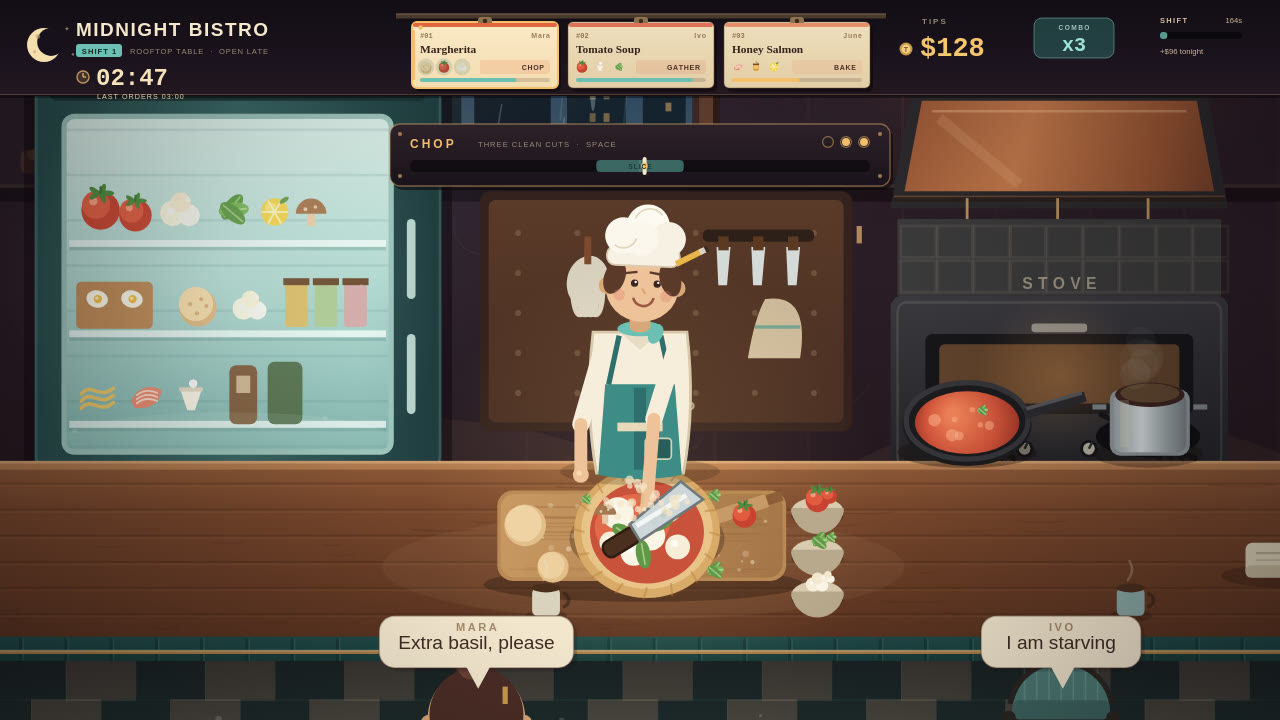
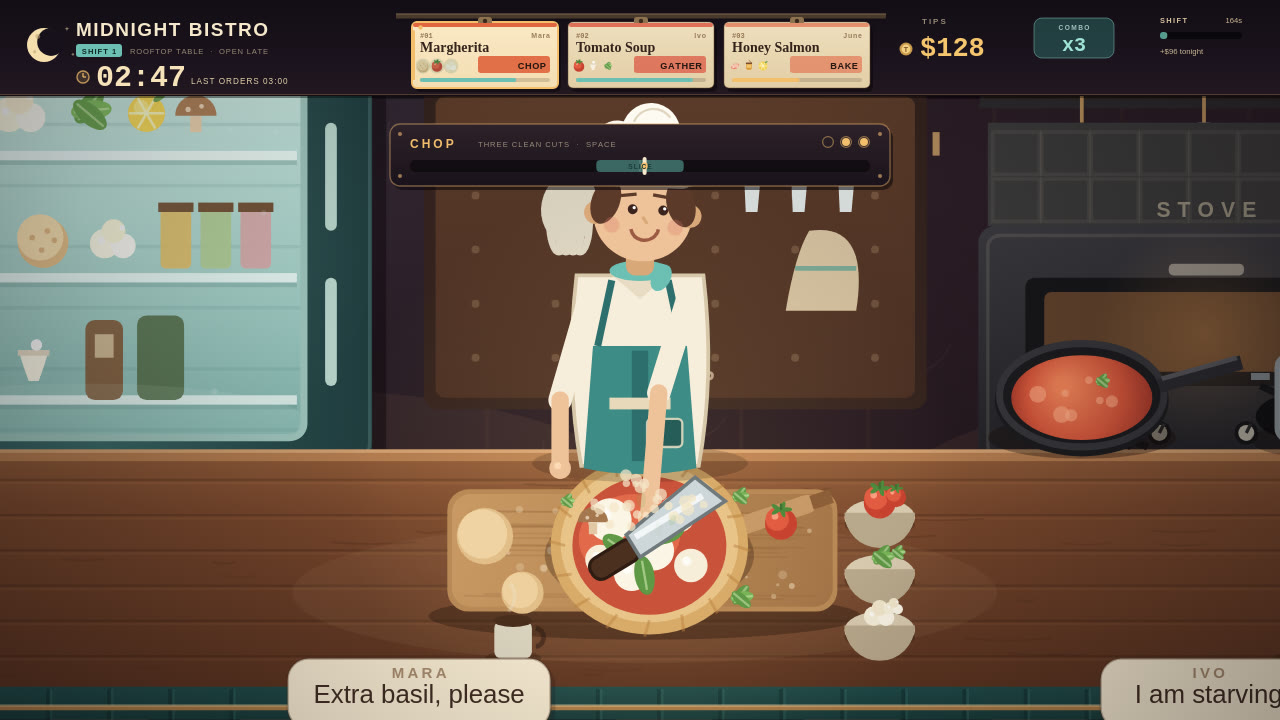
Rebuild the judge sheet: bigger clock and tickets, four distinct beats, lit pass with ORDER UP

diff --git a/game/src/hud.js b/game/src/hud.js
@@ -49,8 +49,8 @@ function drawClock(ctx, game, x, y) {
   line(ctx, x, y - 5, x, y - 9, '#f3bf6d', 1.2);
   line(ctx, x, y - 5, x + 3, y - 5, '#f3bf6d', 1.2);
   const mins = game.clockMinutes === undefined ? 167 : game.clockMinutes;
-  text(ctx, fmtClock(mins), x + 13, y + 3, 24, '#f6e3b9', { font: 'mono', weight: 700 });
-  text(ctx, 'LAST ORDERS 03:00', x + 14, y + 17, 7.2, withAlpha('#f0dcb4', 0.95), { spacing: 1 });
+  text(ctx, fmtClock(mins), x + 13, y + 4, 30, '#f6e3b9', { font: 'mono', weight: 700 });
+  text(ctx, 'LAST ORDERS 03:00', x + 108, y + 2, 8.2, withAlpha('#f0dcb4', 0.95), { spacing: 1 });
 }
 
 export function drawHUD(ctx, game) {
@@ -203,21 +203,21 @@ function drawTicket(ctx, game, index, x, y, w, h) {
   text(ctx, '#' + String(index + 1).padStart(2, '0'), x + 8, y + 16, 7, withAlpha('#7a5a3a', 0.8), { font: 'mono', weight: 700 });
   text(ctx, seat ? seat.customer.name : 'Guest', x + w - 8, y + 16, 7, withAlpha('#7a5a3a', 0.75), { align: 'right', weight: 700, spacing: 0.8 });
   // dish name
-  text(ctx, r.short, x + 8, y + 31, 11.4, '#33231a', { font: 'serif', weight: 700 });
+  text(ctx, r.short, x + 8, y + 30, 14, '#33231a', { font: 'serif', weight: 700 });
   // ingredient icons and step
   r.ingredients.forEach((id, k) => {
     const got = order.gathered.includes(id);
-    drawIngredient(ctx, id, x + 14 + k * 18, y + 45, 6.2);
+    drawIngredient(ctx, id, x + 11 + k * 14, y + 44, 6.2);
     if (got) {
-      circle(ctx, x + 14 + k * 18, y + 45, 8.4, withAlpha('#2f6e69', 0.16));
+      circle(ctx, x + 11 + k * 14, y + 44, 7.4, withAlpha('#2f6e69', 0.16));
     }
   });
   const verb = stepVerb(order);
   const done = order.step === 'serve';
-  ctx.fillStyle = done ? withAlpha('#2f6e69', 0.9) : withAlpha(r.color, 0.16);
-  rr(ctx, x + 68, y + 38, w - 76, 14, 3);
+  ctx.fillStyle = done ? withAlpha('#2f6e69', 0.95) : withAlpha(r.color, 0.92);
+  rr(ctx, x + 66, y + 34, w - 74, 17, 3);
   ctx.fill();
-  text(ctx, done ? 'SERVE ' + (index + 1) : verb, x + w - 14, y + 48, 7, done ? '#e8f3e7' : '#4a3324', { weight: 700, spacing: 0.7, align: 'right' });
+  text(ctx, done ? 'SERVE ' + (index + 1) : verb, x + w - 12, y + 47, 9.2, done ? '#e8f3e7' : '#241610', { weight: 700, spacing: 0.6, align: 'right' });
   // patience
   const pc = patienceColor(order.patience);
   ctx.fillStyle = withAlpha('#3b2b1c', 0.18);
@@ -247,15 +247,15 @@ function drawHintLine(ctx, game) {
   const tone = game.hintTone === 'good' ? '#bfe4d8' : game.hintTone === 'bad' ? '#ffc5ad' : '#f0e3c7';
   ctx.save();
   ctx.globalAlpha = a;
-  ctx.font = `400 12px ${FONT.ui}`;
-  const w = Math.min(760, ctx.measureText(game.hintText).width + 36);
-  ctx.fillStyle = withAlpha('#120d15', 0.72);
-  rr(ctx, 640 - w / 2, 102, w, 25, 8);
+  ctx.font = `400 15px ${FONT.ui}`;
+  const w = Math.min(900, ctx.measureText(game.hintText).width + 44);
+  ctx.fillStyle = withAlpha('#120d15', 0.8);
+  rr(ctx, 640 - w / 2, 100, w, 31, 9);
   ctx.fill();
   ctx.strokeStyle = withAlpha(tone, 0.22);
   ctx.lineWidth = 1;
   ctx.stroke();
-  text(ctx, game.hintText, 640, 119, 12, tone, { align: 'center' });
+  text(ctx, game.hintText, 640, 120, 15, tone, { align: 'center' });
   ctx.restore();
 }
 

diff --git a/game/src/render.js b/game/src/render.js
@@ -1255,8 +1255,8 @@ function drawPassTop(ctx, game) {
     ctx.save();
     ctx.globalCompositeOperation = 'lighter';
     const lampCone = ctx.createLinearGradient(0, 344, 0, 516);
-    lampCone.addColorStop(0, 'rgba(255,207,130,0.22)');
-    lampCone.addColorStop(1, 'rgba(255,196,118,0.05)');
+    lampCone.addColorStop(0, 'rgba(255,207,130,0.30)');
+    lampCone.addColorStop(1, 'rgba(255,196,118,0.07)');
     ctx.fillStyle = lampCone;
     ctx.beginPath();
     ctx.moveTo(1105, 344);
@@ -1265,22 +1265,22 @@ function drawPassTop(ctx, game) {
     ctx.lineTo(1080, 516);
     ctx.closePath();
     ctx.fill();
-    const pool = ctx.createRadialGradient(1104, 500, 4, 1104, 500, 86);
-    pool.addColorStop(0, 'rgba(255,216,148,0.34)');
-    pool.addColorStop(0.6, 'rgba(255,198,122,0.13)');
+    const pool = ctx.createRadialGradient(1104, 500, 4, 1104, 500, 100);
+    pool.addColorStop(0, 'rgba(255,216,148,0.42)');
+    pool.addColorStop(0.6, 'rgba(255,198,122,0.17)');
     pool.addColorStop(1, 'rgba(255,190,116,0)');
     ctx.fillStyle = pool;
     ctx.beginPath();
-    ctx.ellipse(1104, 500, 92, 36, 0, 0, Math.PI * 2);
+    ctx.ellipse(1104, 500, 100, 40, 0, 0, Math.PI * 2);
     ctx.fill();
     ctx.restore();
-    drawDish(ctx, 1104, 500, recipeById('ramen'), 1.5, true);
+    drawDish(ctx, 1104, 500, recipeById('ramen'), 1.85, true);
     // a bright rim keeps the plate from melting into the counter
     ctx.save();
-    ctx.strokeStyle = withAlpha('#fff4d6', 0.8);
-    ctx.lineWidth = 1.7;
+    ctx.strokeStyle = withAlpha('#fff4d6', 0.85);
+    ctx.lineWidth = 2;
     ctx.beginPath();
-    ctx.ellipse(1104, 499, 39, 12.6, 0, Math.PI * 1.03, Math.PI * 1.97);
+    ctx.ellipse(1104, 498, 47, 15.2, 0, Math.PI * 1.03, Math.PI * 1.97);
     ctx.stroke();
     ctx.restore();
     // steam curls rising into the lamp light, so the pass reads as a pass
@@ -1297,10 +1297,18 @@ function drawPassTop(ctx, game) {
     }
     ctx.restore();
   } else {
-    const first = 1114 - ((plated.length - 1) * 58) / 2;
+    const first = 1114 - ((plated.length - 1) * 64) / 2;
     plated.forEach((o, i) => {
-      drawDish(ctx, first + i * 58, 530, o.recipe, 0.68, o.quality === 'perfect');
+      drawDish(ctx, first + i * 64, 528, o.recipe, 0.92, o.quality === 'perfect');
     });
+    // the pass light box says what the counter already knows
+    ctx.fillStyle = withAlpha('#1a1114', 0.86);
+    rr(ctx, 1114 - 48, 448, 96, 23, 5);
+    ctx.fill();
+    ctx.strokeStyle = withAlpha('#f3bf6d', 0.6);
+    ctx.lineWidth = 1.2;
+    ctx.stroke();
+    text(ctx, 'ORDER UP', 1114, 465, 11.5, '#ffd79a', { weight: 700, spacing: 1.6, align: 'center' });
   }
   // brass bell
   drawBell(ctx, 1150, 502, game);

diff --git a/game/src/shots.js b/game/src/shots.js
@@ -95,7 +95,7 @@ export function stageShot(game, kind, seed = 7) {
       game.chop.speed = 1.0;
       o0.chops = 2;
     }
-    game.camera = createCamera(390, 416, 1.74);
+    game.camera = createCamera(390, 430, 2.35);
     game.tips = 128;
     game.combo = 3;
     game.clockMinutes = 167;
@@ -119,7 +119,7 @@ export function stageShot(game, kind, seed = 7) {
       game.cook.speed = 0.11;
       o0.quality = null;
     }
-    game.camera = createCamera(628, 414, 1.72);
+    game.camera = createCamera(636, 420, 2.25);
     emitSteam(game, 674, 402, 12, 12, { a: 0.2 });
     emitSteam(game, 578, 424, 6, 16, { a: 0.12 });
     emitSpark(game, 566, 440, 8);
@@ -128,11 +128,11 @@ export function stageShot(game, kind, seed = 7) {
     seat(game, 0, seat0, 'Extra basil, please');
     seat(game, 1, seat1, 'I am starving');
     seat(game, 2, seat2, 'Mmm. Perfect.', 'happy');
-    ticket(game, 0, 'ramen', 'cook', 0.72, { gathered: true, chops: 3 });
+    ticket(game, 0, 'ramen', 'serve', 0.72, { gathered: true, chops: 3 });
     ticket(game, 1, 'margherita', 'chop', 0.55, { gathered: true, chops: 1 });
     moveChefTo(game.chef, 'pass', 0);
     setPose(game.chef, 'ring', 99);
-    game.camera = createCamera(750, 440, 1.22);
+    game.camera = createCamera(1280, 470, 2.1);
     game.tips = 128;
     game.combo = 3;
     game.tipsEarned = 114;
@@ -142,6 +142,8 @@ export function stageShot(game, kind, seed = 7) {
     emitHearts(game, 966, 582, 7);
     emitCoins(game, 966, 596, 1004, 54, 4);
     emitSteam(game, 1058, 452, 8, 14, { a: 0.16 });
+    game.hintText = 'ORDER UP  ·  ring the bell to send the ramen';
+    game.hintT = 99;
     linger(game, 'steam');
   } else {
     // cover: the busiest, warmest frame
@@ -165,6 +167,8 @@ export function stageShot(game, kind, seed = 7) {
     game.shiftTime = 96;
     game.clockMinutes = 167;
     game.flash = 0.12;
+    game.hintText = 'ORDER #01  ·  finish the basil, then cook the Margherita';
+    game.hintT = 99;
     emitSteam(game, 674, 400, 14, 12, { a: 0.2 });
     emitSteam(game, 1058, 448, 6, 12, { a: 0.14 });
     emitSpark(game, 566, 440, 7);
